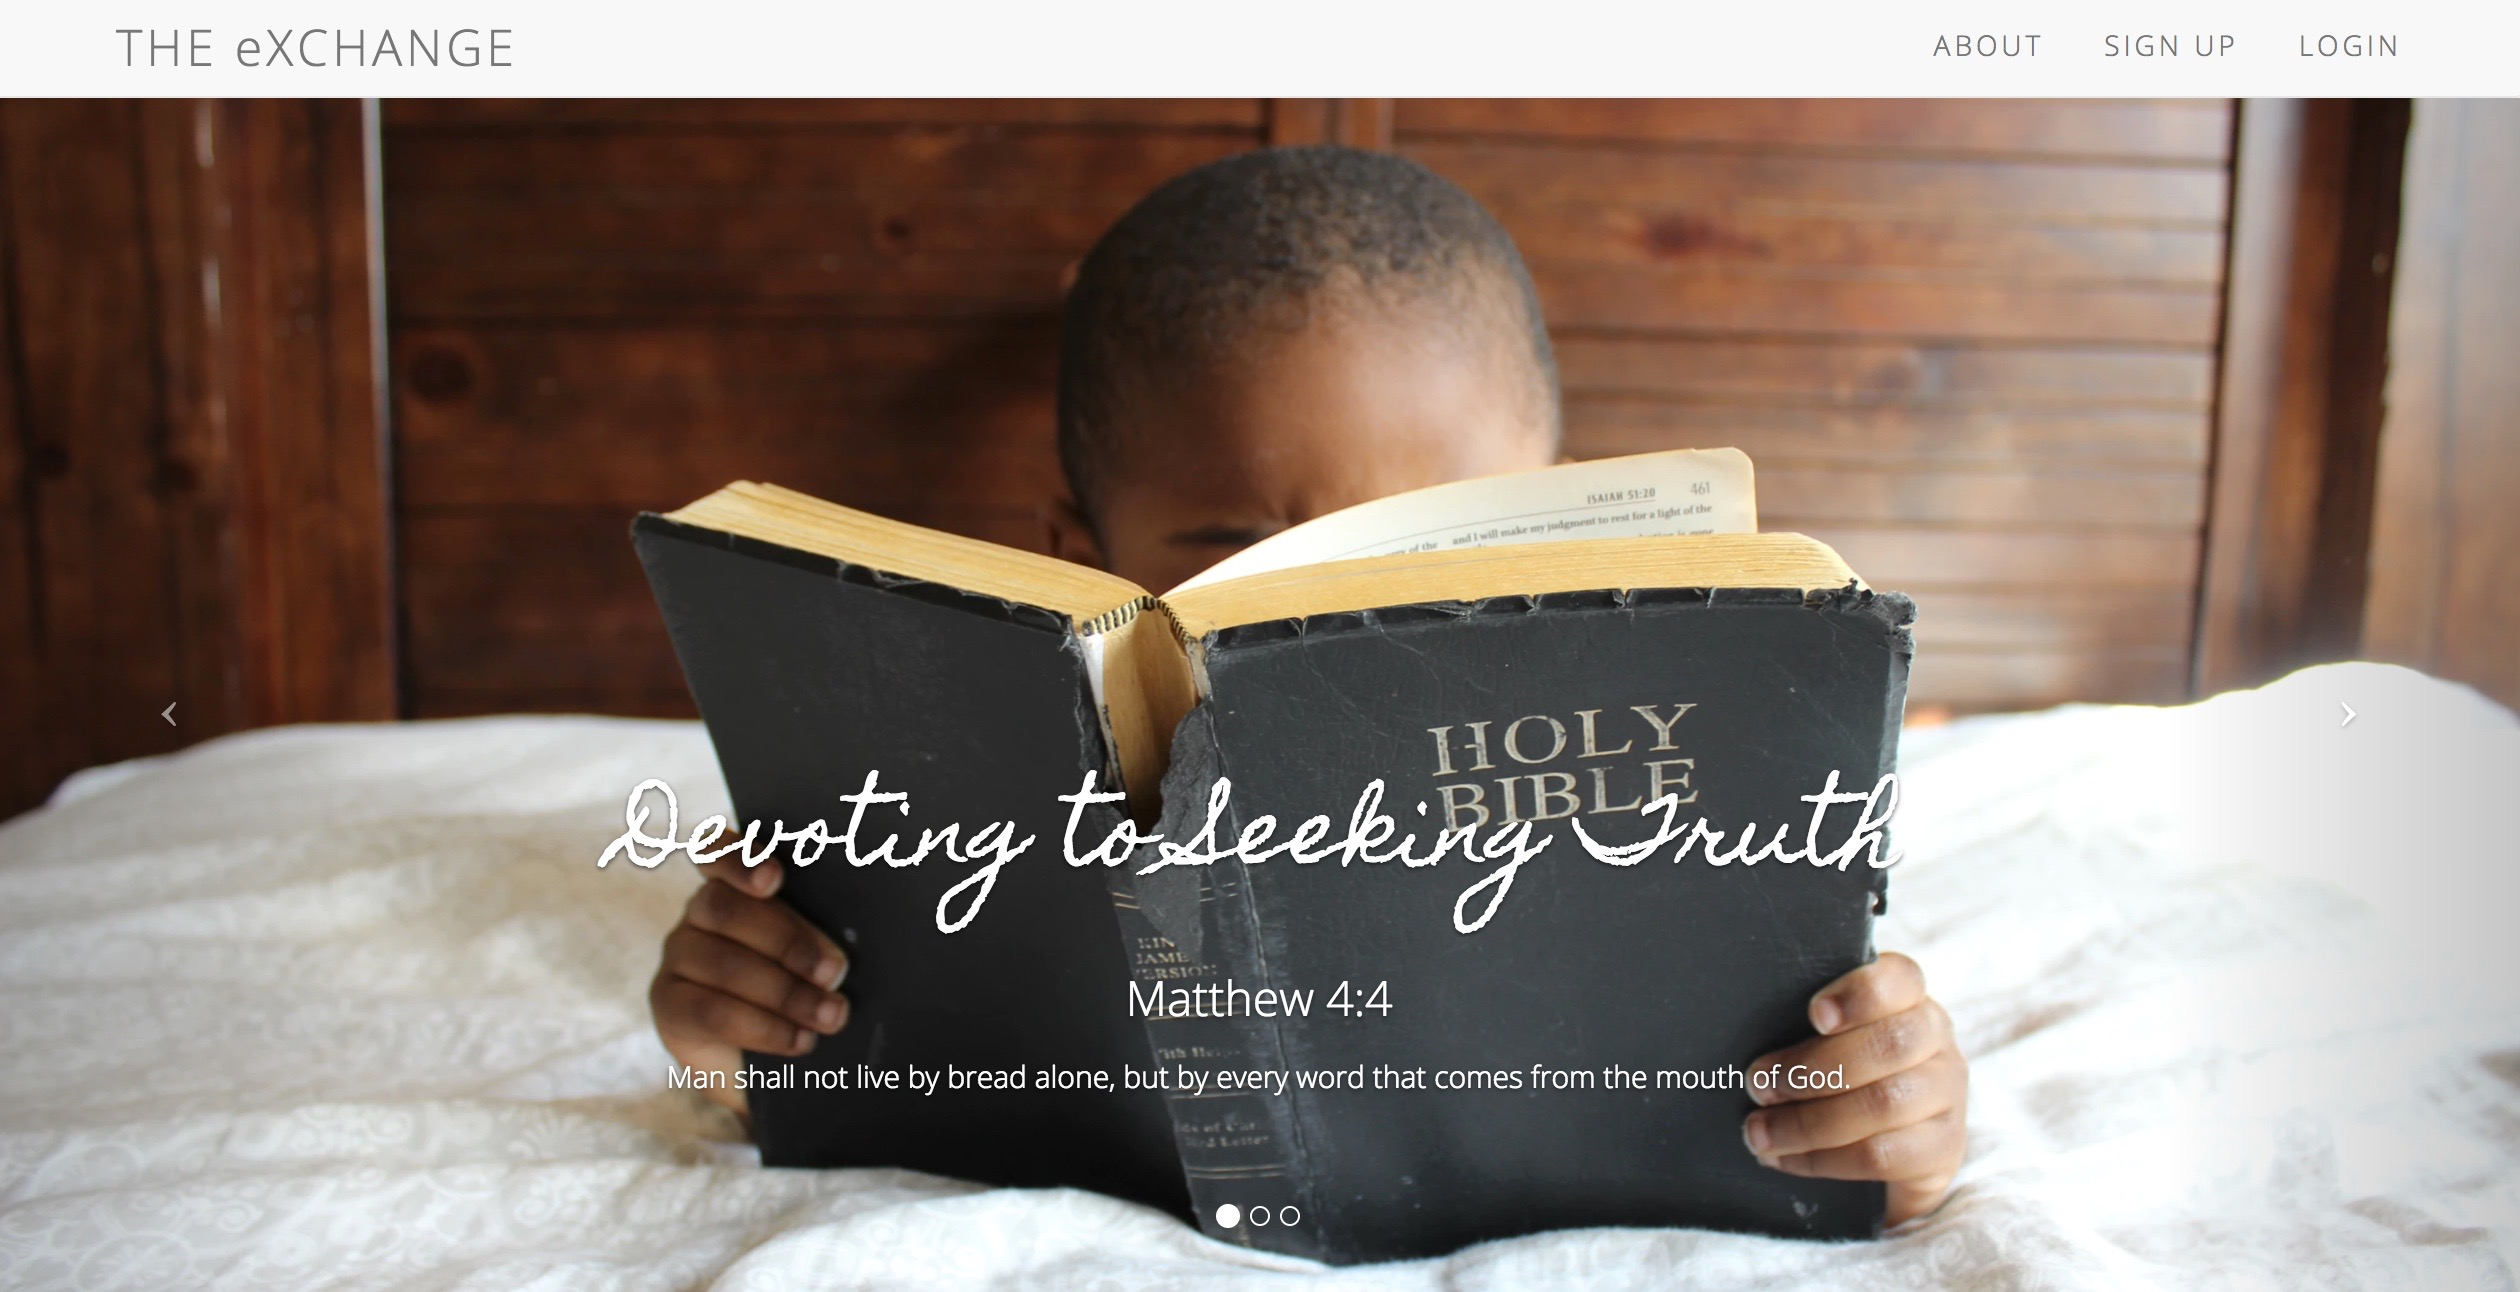
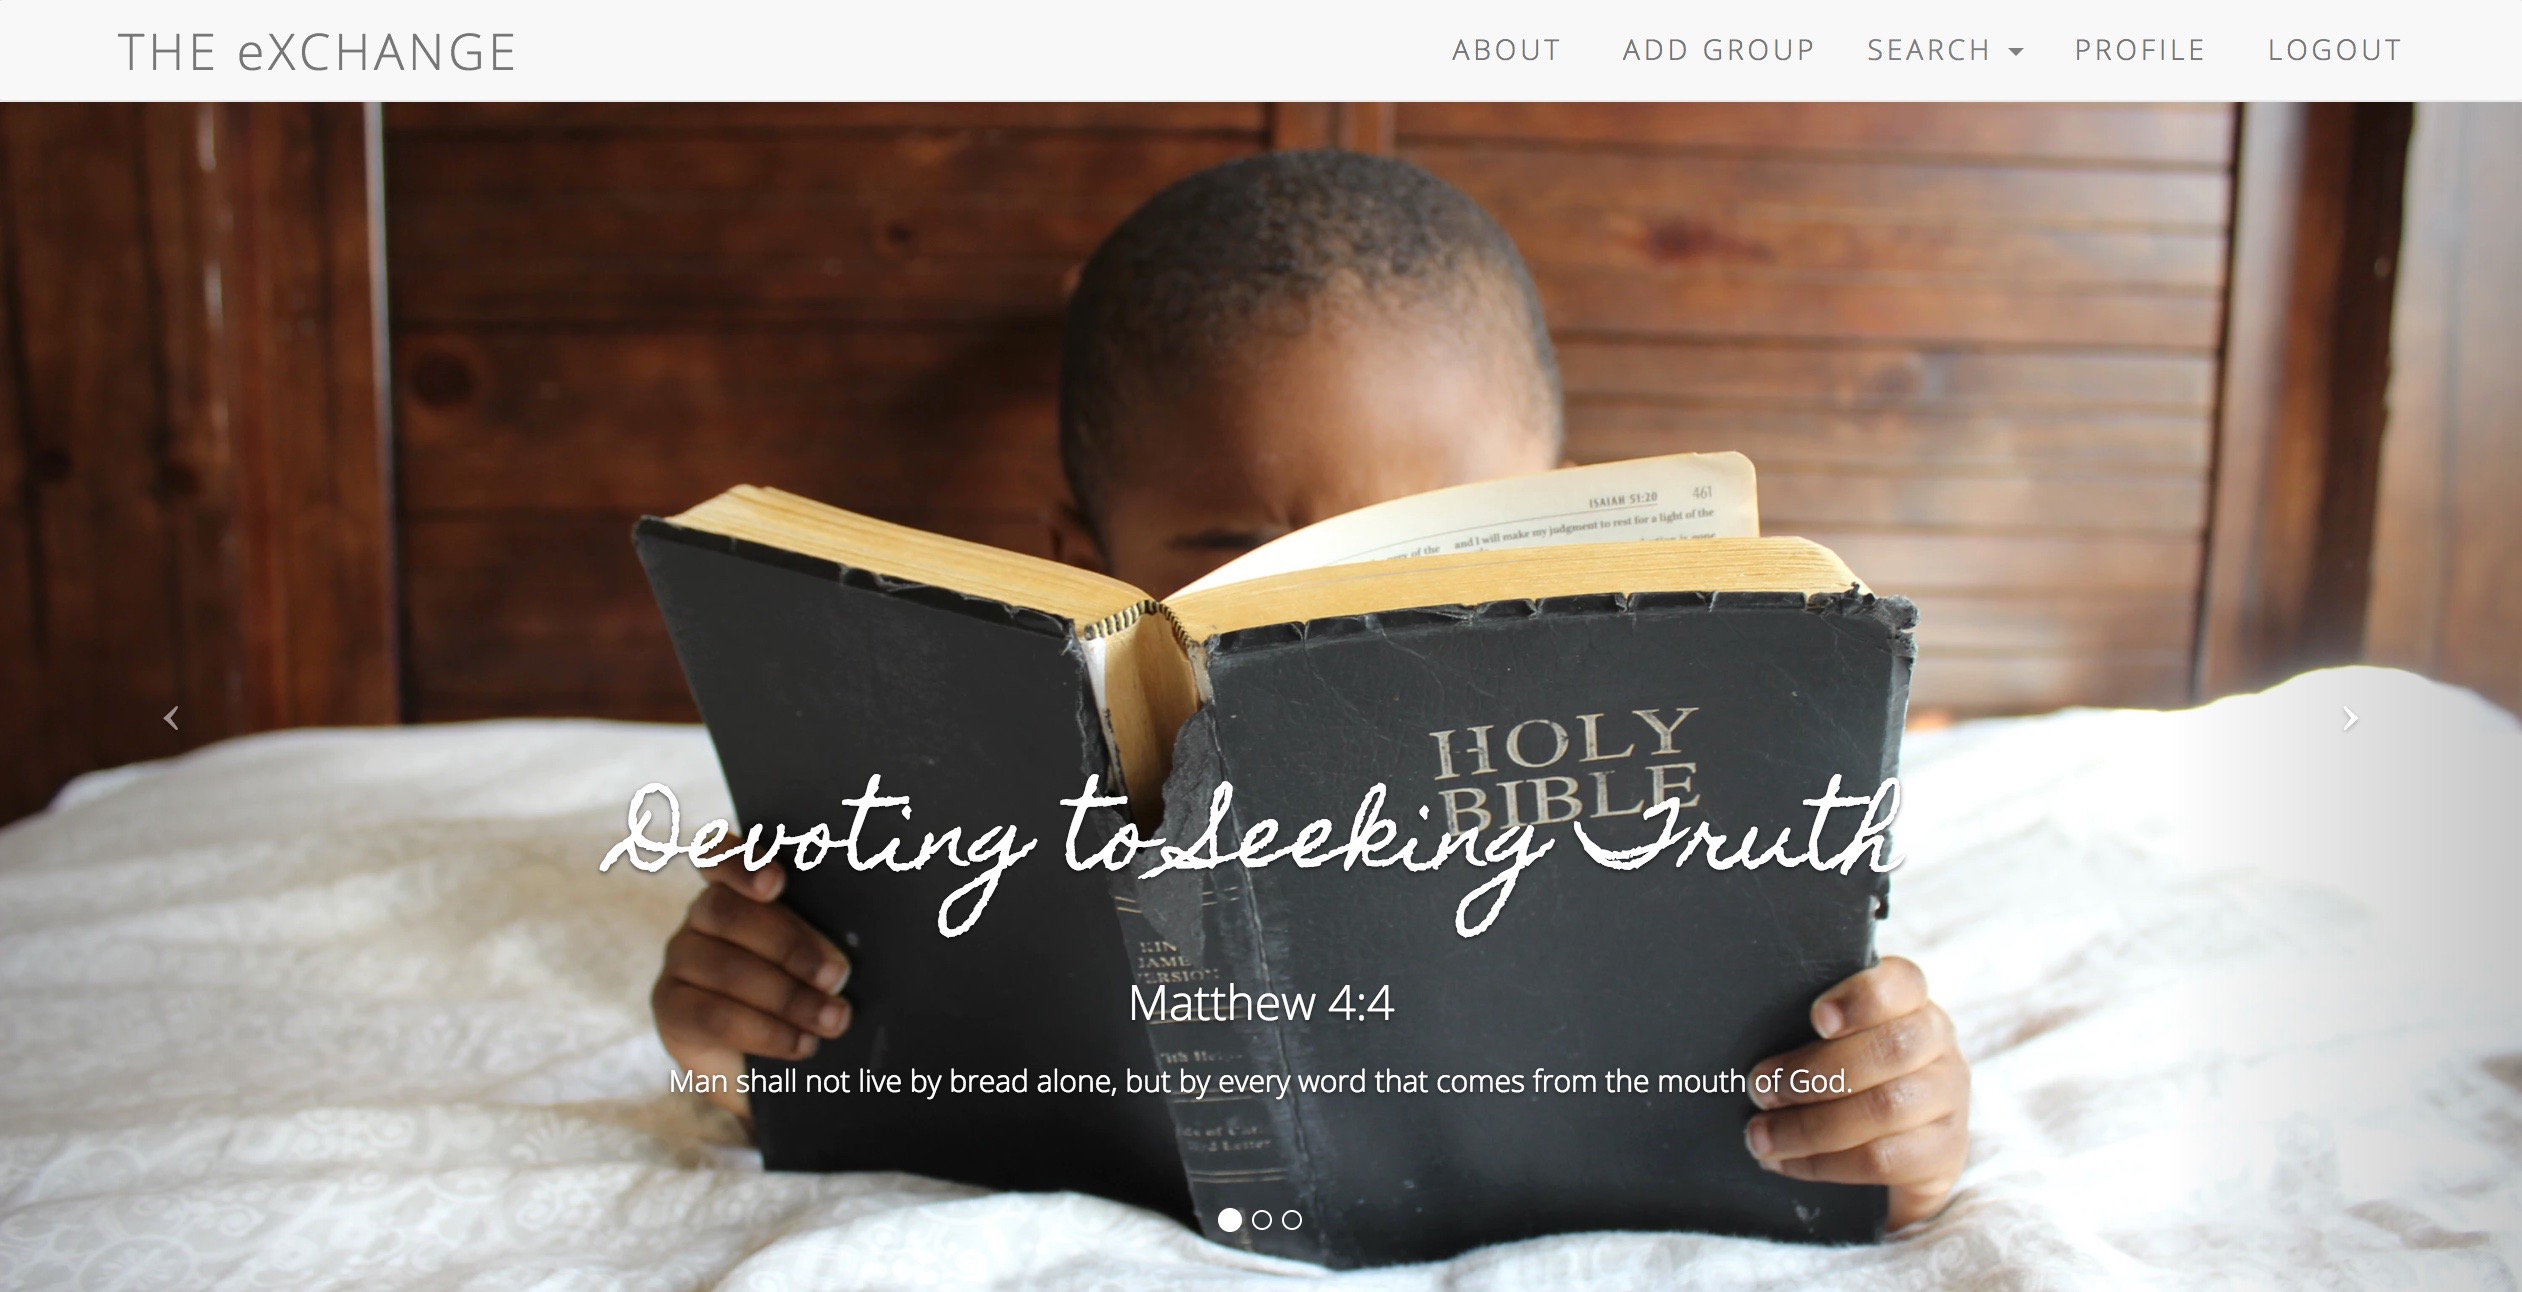
updates

diff --git a/app/index.html b/app/index.html
@@ -7,6 +7,7 @@
     <meta name="viewport" content="width=device-width, initial-scale=1.0">
     <link rel="stylesheet" href="https://maxcdn.bootstrapcdn.com/bootstrap/3.3.7/css/bootstrap.min.css" integrity="sha384-BVYiiSIFeK1dGmJRAkycuHAHRg32OmUcww7on3RYdg4Va+PmSTsz/K68vbdEjh4u" crossorigin="anonymous">
     <link href="https://fonts.googleapis.com/css?family=Roboto:300,500,900" rel="stylesheet">
+    <link href="https://fonts.googleapis.com/css?family=Source+Code+Pro" rel="stylesheet">
     <link rel="stylesheet" href="https://maxcdn.bootstrapcdn.com/font-awesome/4.6.1/css/font-awesome.min.css">
     <link rel="stylesheet" href="css/normalize.css">
     <link rel="stylesheet" href="css/main.css">
@@ -30,24 +31,17 @@
       </div>
     </nav>
 
-    <header>
-      <div class="container-fluid">
-        <div class="row">
-         <div ><img class="widepic img-responsive center-block" src="/images/IMG_2923.jpg"></div>
-        </div>
-      </div>
-    </header>
-
     <section>
-      <div class="container-fluid bio" id="about">
-        <div class="row">
-          <div class="col-sm-6">
-            <div class="intro-self">
+      <div class="container-fluid" id="about">
+        <div class="row bio">
+         <div class="col-sm-5">
+           <img class="widepic img-responsive " src="/images/1000.jpg">
+         </div>
+        <div class="col-sm-7">
+          <div class="bio intro-self">
               <p>Hi, I'm Grace. I'm a front-end engineer.</p>
             </div>
-          </div>
-          <div class="col-sm-6">
-            <div class="detail-self">
+          <div class="bio detail-self">
               <p>CPA desiring to make an impact in my community and relationships.</p>
             </div>
           </div>
@@ -57,21 +51,51 @@
 
 
   <section>
-    <div class="container-fluid" id="projects">
+    <div class="row">
+    <div class="container-fluid projectsection" id="projects">
 <br/>
-      <div class="row projectsection">
-        <div class="col-sm-7">
-          <a href="https://tiy-gracelee-the-exchange-frontend.surge.sh/#/home" class="portfolio-box" target="blank">
-              <img src="/images/theexchange.jpg" class="img-responsive " alt="picture of THEeXCHANGE">
+<div class="row">
+  <div class="col-sm-6">
+    <a href="https://tiy-gracelee-the-exchange-frontend.surge.sh/#/home" class="portfolio-box" target="blank">
+        <img src="/images/theexchange.jpg" class="img-responsive " alt="picture of THEeXCHANGE">
+      </a>
+    </div>
+      <div class="col-sm-6">
+        <div class="projectTitle">
+              THE eXCHANGE
+            </div>
+            <hr>
+        <div class="projectDesc">
+                THE eXCHANGE is a bible study app that allows the user to search for a bible study by specific search categories. This app also allows the user to search for bible studies nearby or within a certain mile range. Once the user signes up for a bible study group, the user can engage and interact with fellow group members.
+            <br/>
+            <br/>
+                Having built the entire back-end of the project, this project helped me to understand the relationship between the front-end and back-end engineering process of an app.
+            </div>
+            <br/>
+        <div class="projectDesc"> Tools Utilized:<b>
+                HTML SASS ANGULAR BOOTSTRAP HEROKU </b>
+            </div>
+            <br/>
+        <p>
+           <a class="link" href= "https://github.com/eunheh/the-exchange-frontend"><i class="fa fa-github" aria-hidden="true"></i></a>
+           <a class="link" href= "https://tiy-gracelee-the-exchange-frontend.surge.sh/#/home"><i class="fa fa-link" aria-hidden="true"></i></a></p>
+    </div>
+  </div>
+<br/>
+
+      <div class="row">
+        <div class="col-sm-6">
+          <a href="https://http://tiy-gracelee-restaurant.surge.sh/" class="portfolio-box" target="blank">
+              <img src="/images/ironcooks.jpg" class="img-responsive " alt="picture of THEeXCHANGE">
             </a>
           </div>
-            <div class="col-sm-5">
+            <div class="col-sm-6">
               <div class="projectTitle">
-                    THE eXCHANGE
+                    IRON COOKS
                   </div>
                   <hr>
               <div class="projectDesc">
-                      This is a bible study app that allows the user search for a bible study by specific search items. This app also allows the user to search for bible studies near by or within a certain mile range.
+                      Iron Cooks is a restaurant website.
                   <br/>
                   <br/>
                       Having built the entire back-end of the project, this project helped me to understand the relationship between the front-end and back-end engineering process of an app.
@@ -82,24 +106,24 @@
                   </div>
                   <br/>
               <p>
-                 <a class="link" href= "https://github.com/eunheh/the-exchange-frontend"><i class="fa fa-github" aria-hidden="true"></i></a>
-                 <a class="link" href= "https://tiy-gracelee-the-exchange-frontend.surge.sh/#/home"><i class="fa fa-link" aria-hidden="true"></i></a></p>
+                 <a class="link" href= "https://github.com/eunheh/restaurant"><i class="fa fa-github" aria-hidden="true"></i></a>
+                 <a class="link" href= "https://tiy-gracelee-restaurant.surge.sh/"><i class="fa fa-link" aria-hidden="true"></i></a></p>
           </div>
         </div>
 <br/>
-        <div class="row projectsection">
-          <div class="col-sm-7">
-            <a href="https://tiy-gracelee-the-exchange-frontend.surge.sh/#/home" class="portfolio-box" target="blank">
-                <img src="/images/theexchange.jpg" class="img-responsive " alt="picture of THEeXCHANGE">
+        <div class="row">
+          <div class="col-sm-6">
+            <a href="http://tiy-gracelee-music-app.surge.sh/" class="portfolio-box" target="blank">
+                <img src="/images/musicwaves.jpg" class="img-responsive " alt="picture of THEeXCHANGE">
               </a>
             </div>
-              <div class="col-sm-5">
+              <div class="col-sm-6">
                 <div class="projectTitle">
-                      THE eXCHANGE
+                      MUSIC WAVES
                     </div>
                     <hr>
                 <div class="projectDesc">
-                        This is a bible study app that allows the user search for a bible study by specific search items. This app also allows the user to search for bible studies near by or within a certain mile range.
+                        Music Waves is a music search app.
                     <br/>
                     <br/>
                         Having built the entire back-end of the project, this project helped me to understand the relationship between the front-end and back-end engineering process of an app.
@@ -110,13 +134,39 @@
                     </div>
                     <br/>
                 <p>
-                   <a class="link" href= "https://github.com/eunheh/the-exchange-frontend"><i class="fa fa-github" aria-hidden="true"></i></a>
-                   <a class="link" href= "https://tiy-gracelee-the-exchange-frontend.surge.sh/#/home"><i class="fa fa-link" aria-hidden="true"></i></a></p>
+                   <a class="link" href= "https://github.com/eunheh/music-app"><i class="fa fa-github" aria-hidden="true"></i></a>
+                   <a class="link" href= "http://tiy-gracelee-music-app.surge.sh/"><i class="fa fa-link" aria-hidden="true"></i></a></p>
             </div>
           </div>
+    </section>
 
-
-  </section>
+  <footer id="contact">
+    <div class="container">
+      <div class="row">
+        <div class="col-lg-8 col-lg-offset-2 col-xs-12 text-center">
+          <br/>
+          <br/>
+          <h2 class="section-heading hello">Please say hello.</h2>
+          <hr class="primary">
+          <br />
+        </div>
+        <div class="row">
+          <div class="col-sm-4 text-center contactstuff">
+            <i class="fa fa-phone fa-3x techI"></i>
+            <p><a class="contactstuff" href="tel://14049717787">404-971-7787</a></p>
+          </div>
+          <div class="col-sm-4 text-center contactstuff">
+            <a class="contactstuff" href="assets/gracelee.resume.pdf" target="_blank"><i class="fa fa-file-text-o fa-3x techI"></i></a>
+            <p><a class="contactstuff" href="assets/gracelee.resume.pdf" target="_blank">Resume</a></p>
+          </div>
+          <div class="col-sm-4 text-center contactstuff">
+            <i class="fa fa-envelope-o fa-3x techI"></i>
+            <p><a class="contactstuff" href="mailto:eunheh@gmail.com">eunheh@gmail.com</a></p>
+          </div>
+        </div>
+      </div>
+    </div>
+  </footer>
 
 
     <script src="js/bundle.js"></script>

diff --git a/src/sass/main.scss b/src/sass/main.scss
@@ -6,26 +6,31 @@
 
 .navbar {
   background: white;
-  height: 130px;
+  height: 90px;
+  margin-bottom: 0px;
 
   .navbar-brand {
     font-size: 35px;
     font-weight: 500;
     letter-spacing: 4px;
     padding-left: 70px;
-    padding-top: 50px;
+    padding-top: 38px;
     color: black;
   }
   .navbar-nav {
     font-weight: 300;
     font-size: 13px;
     padding-right: 70px;
-    padding-top: 40px;
+    padding-top: 28px;
     letter-spacing: 2.75px;
   }
 }
 
+
 .bio {
+  .widepic {
+    height: 700px;
+  }
   .intro-self {
     letter-spacing: 3px;
     font-weight: 300;
@@ -47,8 +52,8 @@
 }
 
 .projectsection {
-  padding-left: 120px;
-  padding-right: 120px;
+  padding-left: 70px;
+  padding-right: 70px;
 
   img {
     width: 525px;
@@ -76,5 +81,24 @@
   }
   .fa:hover {
     color: gray;
+  }
+}
+
+footer {
+  height: 500px;
+
+  .hello {
+    font-family: 'Source Code Pro';
+    padding-top: 50px;
+    padding-bottom: 40px;
+  }
+
+  i {
+    padding-bottom: 20px;
+  }
+  .contactstuff {
+    padding-top: 30px;
+    color: gray;
+    font-family: 'Source Code Pro';
   }
 }
